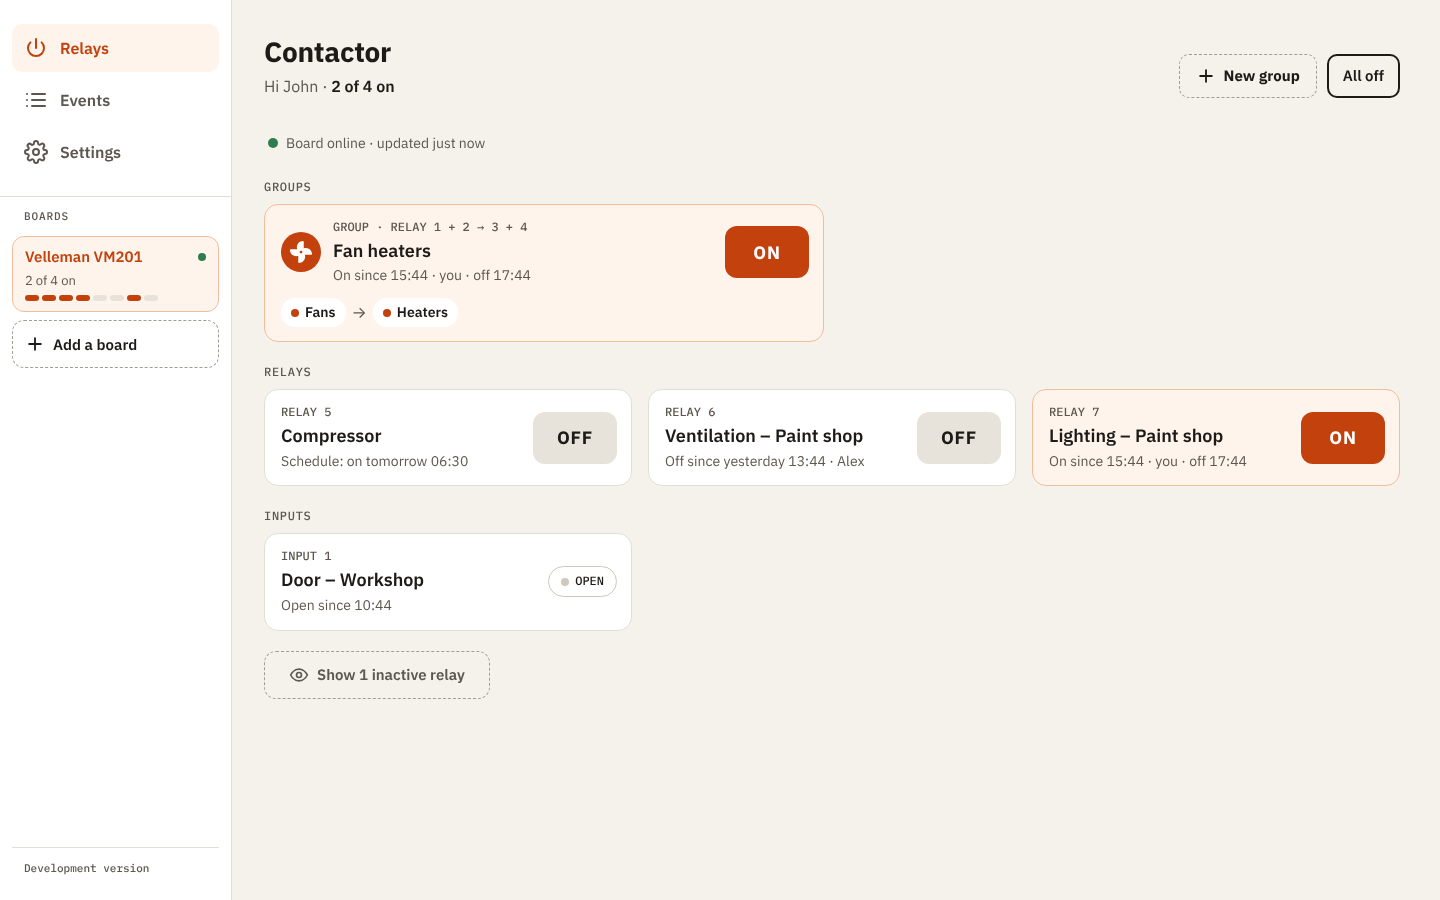
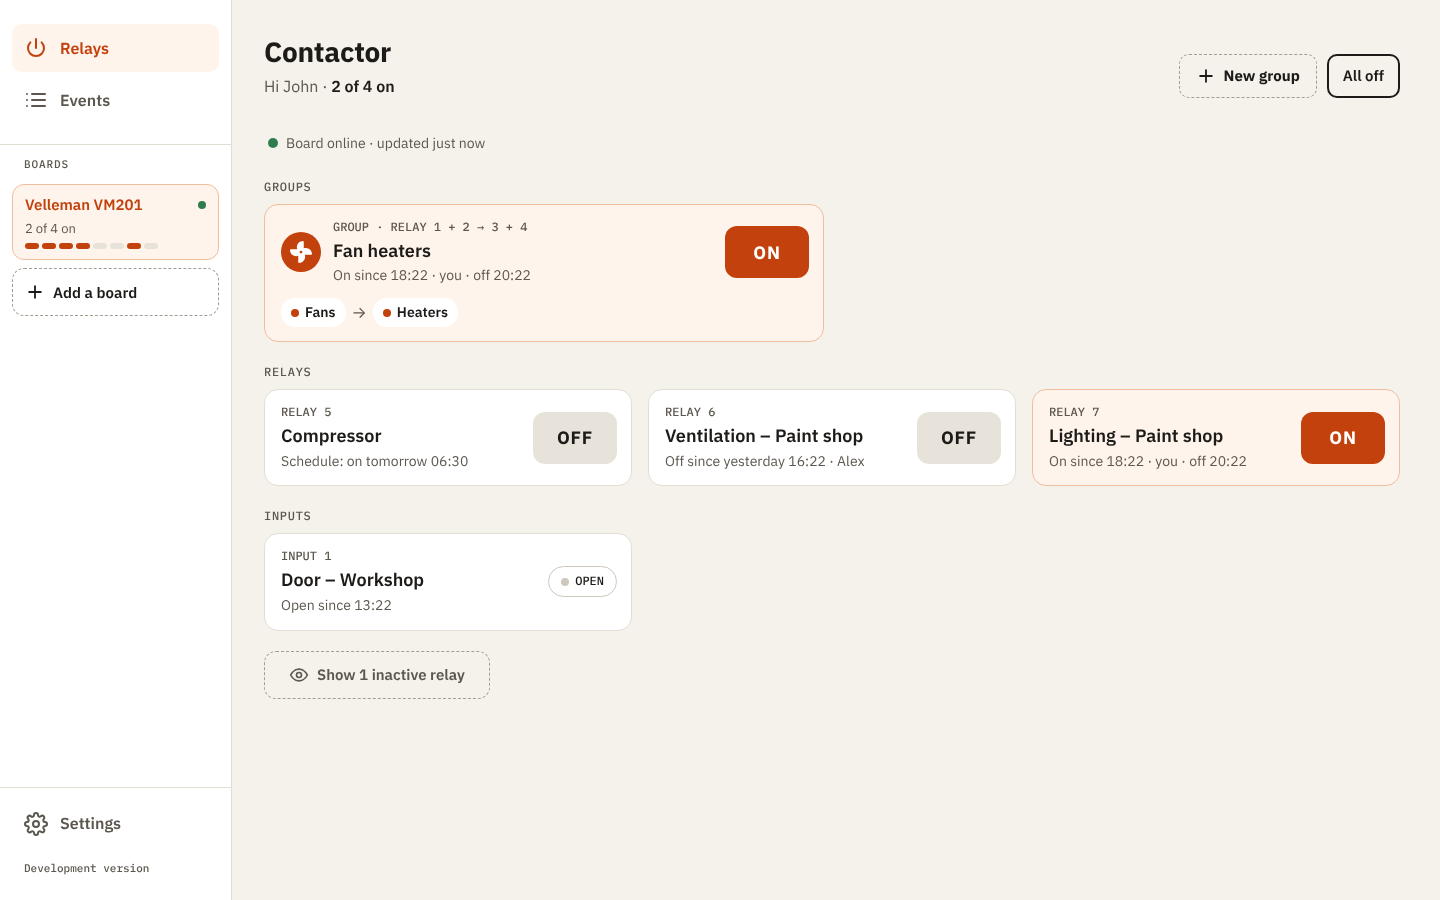
Put Debug and Settings at the bottom of the desktop side menu
Relays and Events stay on top with the boards under them; Debug (while
Debugging is on) and Settings sit just above the version, under a thin
line. The phone's tab bar keeps its order.

diff --git a/Contactor.Web/Components/TabBar.razor.css b/Contactor.Web/Components/TabBar.razor.css
@@ -37,6 +37,15 @@
     color: var(--accent);
 }
 
+/* The side menu's bottom group: in the tab bar its links are tabs like the others, Debug after Settings. */
+.side-bottom {
+    display: contents;
+}
+
+.tabs a.debug {
+    order: 1;
+}
+
 /* Above the tab bar, over the page; only the toasts themselves catch taps. */
 .toasts {
     position: absolute;
@@ -134,9 +143,23 @@
             background: var(--accent-tint);
         }
 
+        /* Debug and Settings at the bottom, just above the version, under a thin line. */
+        .side-bottom {
+            display: flex;
+            flex-direction: column;
+            gap: 4px;
+            margin: auto -12px 0;
+            padding: 12px 12px 0;
+            border-top: 1px solid var(--line);
+        }
+
+        .tabs a.debug {
+            order: 0;
+        }
+
         .tabs .version {
             display: block;
-            margin-top: auto;
+            margin-top: 8px;
             padding: 0 12px;
             font-family: var(--font-mono);
             font-size: 11px;
@@ -147,8 +170,8 @@
             color: var(--muted);
         }
 
-        /* A page's list under the tabs (the Relays screen's boards): it scrolls on its own, between the tabs and the
-           version. */
+        /* A page's list under the tabs (the Relays screen's boards): it scrolls on its own, between the tabs and
+           Debug and Settings. */
         .tabs.has-list {
             overflow: hidden;
         }
@@ -163,12 +186,6 @@
             padding: 12px 12px 16px;
             border-top: 1px solid var(--line);
             overflow-y: auto;
-        }
-
-        .tabs.has-list .version {
-            margin-top: 0;
-            padding-top: 12px;
-            border-top: 1px solid var(--line);
         }
 
         .toasts {

diff --git a/Contactor.Tests/Web/TabBarTests.cs b/Contactor.Tests/Web/TabBarTests.cs
@@ -1,0 +1,69 @@
+using System.Net;
+using Contactor.Web.Features.Boards;
+using Microsoft.Extensions.DependencyInjection;
+
+namespace Contactor.Tests.Web;
+
+/// <summary>
+/// The tab bar's order, as the server first renders it: Relays and Events, the boards' list, then Debug (while Debugging
+/// is on) and Settings in the group a desktop puts at the bottom of the side menu, just above the version. The CSS puts
+/// Debug after Settings in the phone's tab bar.
+/// </summary>
+public sealed class TabBarTests
+{
+    private const string John = "john@example.com";
+
+    private static CancellationToken Cancel => TestContext.Current.CancellationToken;
+
+    [Theory]
+    [InlineData("/")]
+    [InlineData("/events")]
+    [InlineData("/settings")]
+    public async Task Should_PutDebugAndSettings_UnderTheBoardsAndAboveTheVersion(string path)
+    {
+        await using var app = new TestWebApp(
+            "Development",
+            new Dictionary<string, string?> { [TestWebApp.SignedInAs] = John });
+        using var http = app.CreateClient();
+        // The first page makes John's row, which keeps his setting.
+        await http.GetStringAsync("/", Cancel);
+        await app.Services.GetRequiredService<BoardTrafficSetting>().SetAsync(John, true, Cancel);
+
+        var nav = Nav(WebUtility.HtmlDecode(await http.GetStringAsync(path, Cancel)));
+
+        AssertInOrder(nav, "<a href ", "href=\"events\"", "class=\"side-list\"", "class=\"side-bottom\"", "href=\"debug\"", "href=\"settings\"", "class=\"version\"");
+    }
+
+    [Fact]
+    public async Task Should_LeaveSettingsAloneAtTheBottom_WhileDebuggingIsOff()
+    {
+        await using var app = new TestWebApp(
+            "Development",
+            new Dictionary<string, string?> { [TestWebApp.SignedInAs] = John });
+        using var http = app.CreateClient();
+
+        var nav = Nav(WebUtility.HtmlDecode(await http.GetStringAsync("/", Cancel)));
+
+        Assert.DoesNotContain("href=\"debug\"", nav, StringComparison.Ordinal);
+        AssertInOrder(nav, "href=\"events\"", "class=\"side-list\"", "class=\"side-bottom\"", "href=\"settings\"", "class=\"version\"");
+    }
+
+    private static string Nav(string html)
+    {
+        var start = html.IndexOf("<nav class=\"tabs", StringComparison.Ordinal);
+        Assert.True(start >= 0, "The page has the tab bar.");
+        var end = html.IndexOf("</nav>", start, StringComparison.Ordinal);
+        return html[start..end];
+    }
+
+    private static void AssertInOrder(string html, params string[] parts)
+    {
+        var at = -1;
+        foreach (var part in parts)
+        {
+            var next = html.IndexOf(part, at + 1, StringComparison.Ordinal);
+            Assert.True(next > at, $"\"{part}\" comes after what is before it.");
+            at = next;
+        }
+    }
+}

diff --git a/docs/ARCHITECTURE.md b/docs/ARCHITECTURE.md
@@ -413,7 +413,7 @@ Mobile first (390 px), and it uses the space on a tablet and a desktop. The UI i
 **Three layouts**, by width only (Tailwind's `md` and `lg`), in each screen's `.razor.css` and `app.css`:
 - **Phone, under 768 px:** one column, the tab bar at the bottom.
 - **Tablet, 768 px and up:** wider screens. On Relays the relays are in two columns, and the groups one per row. The tab bar stays at the bottom.
-- **Desktop, 1024 px and up** (a tablet in landscape too): the tab bar becomes a side menu on the left (`TabBar.razor.css`; pages with it get `padding-left: var(--side-menu)` through `body:has(nav.tabs)`, so the side menu is only used where the browser supports `:has`; older browsers keep the bottom tab bar). On Relays the relays have two columns, three from 1280 px, and from 1280 px two groups sit side by side. Relay and Group have two columns, the events on the right, and Save at the top right, pinned while the page scrolls (a second submit button in the header, `form="…"`; the bottom bar keeps only its warnings). On a tablet Events and Debug go up to 960 px wide and Settings to 720 px; on a desktop every page with the side menu starts right beside it, is up to 1200 px wide, lined up with Relays, and Settings has its cards in two columns. On a desktop "New group" sits in the Relays header beside "All off". The pages under a tab (Relay, Group, a schedule, New group, Add a board) show the side menu too (`TabBar` with `SideMenuOnly`, no bottom tab bar on a phone). Forms (schedule, new group, add a board) stay narrow: 560 px on a tablet, and on a desktop a 640 px card beside the side menu, with their buttons at the bottom of the card.
+- **Desktop, 1024 px and up** (a tablet in landscape too): the tab bar becomes a side menu on the left (`TabBar.razor.css`; pages with it get `padding-left: var(--side-menu)` through `body:has(nav.tabs)`, so the side menu is only used where the browser supports `:has`; older browsers keep the bottom tab bar): Relays and Events at the top, the boards under them, and Debug (while Debugging is on) and Settings at the bottom, just above the version, under a thin `--line` border (`.side-bottom`, pushed down with `margin-top: auto`). The bottom tab bar keeps its order, Relays | Events | Settings | Debug. On Relays the relays have two columns, three from 1280 px, and from 1280 px two groups sit side by side. Relay and Group have two columns, the events on the right, and Save at the top right, pinned while the page scrolls (a second submit button in the header, `form="…"`; the bottom bar keeps only its warnings). On a tablet Events and Debug go up to 960 px wide and Settings to 720 px; on a desktop every page with the side menu starts right beside it, is up to 1200 px wide, lined up with Relays, and Settings has its cards in two columns. On a desktop "New group" sits in the Relays header beside "All off". The pages under a tab (Relay, Group, a schedule, New group, Add a board) show the side menu too (`TabBar` with `SideMenuOnly`, no bottom tab bar on a phone). Forms (schedule, new group, add a board) stay narrow: 560 px on a tablet, and on a desktop a 640 px card beside the side menu, with their buttons at the bottom of the card.
 - **Mouse and keyboard:** hover states and a visible `:focus-visible` ring on buttons and links (inputs keep the browser's own). Touch targets stay at least 44 px. The no-zoom rules apply on every width.
 
 **No zoom.** The pages don't zoom, so nobody zooms in by mistake and loses the big buttons: `user-scalable=no` in the viewport (Android's Chrome follows it), `touch-action: manipulation` against double-tap zoom, and `wwwroot/phone.js`, which cancels the two-finger pinch on iOS, where every browser ignores `user-scalable=no`. Anyone who needs to enlarge can use the phone's own zoom (on iOS: Settings → Accessibility → Zoom).
@@ -442,7 +442,7 @@ Mobile first (390 px), and it uses the space on a tablet and a desktop. The UI i
    - **Two or more boards** (one board looks as above, with the board filter's one board and "+ Add a board", below):
      - The count in the heading covers every board ("16 of 74 on"), and "All off" makes way for the smaller "Turn off all boards", which asks first on the same page ("Turn off all 16 relays on 9 boards?", "Cancel" and a red "Turn off"), then turns off every board it can reach (`RelayControl.TurnOffAllBoardsAsync`) and says under the heading which it couldn't: "Couldn't reach Garage. Its relays are as they were.".
      - The groups of every board shown come first ("GROUP · WORKSHOP 1 → 2", naming the board), then a section per board in the boards' order: its name as a heading (22 px), its model and "3 of 8 on" muted on the right, and its own "All off" (one tap, no question: that board only, `TurnAllOffAsync(boardId)`); its own connection line ("Online · updated just now", or the red box "No contact with Garage"); then "Relays" (still "RELAY n" by the relay's channel) and "Inputs". The counts count a group as one, on its own board.
-     - **The board filter** (`BoardPicker.razor`, the same on Relays, Events and Debug): which boards show, one, several or all. A tap on a board toggles it (from all boards: only that one; the last one let go, or every one picked, is all boards again); no tick boxes. A picked board is light orange (`--accent-tint`, `--accent-border`, its name in `--accent`), the others white with a thin border, a board without contact red (`--danger-*`). On a desktop the side menu lists them under the tabs ("BOARDS": "All boards" with "16 of 74 on · 9 boards", then a box per board with its name, a green or red dot, "3 of 8 on" or "· No contact" (or the short reason the board refuses the connection: "Wrong model", "Needs a password", "Needs a login", "Wrong password" or "Wrong login"), and a lamp per relay, `--accent` when on and `--chip` when off; the counts are the Relays screen's, `BoardCounts`); the list scrolls on its own while the tabs and the version stay (`TabBar`'s `SideList`). Below 1024 px a row of chips under the heading, scrolling sideways: "All", then each board with its name and "3/8", with its lamps from 768 px. The list ends with a dashed "+ Add a board" (on a desktop) and the chips with a dashed "+ Board" (`--line-dashed`, like "New group"), which open "Add a board". With one board there is nothing to filter: the list and the chips show only the board, as picked, and "+ Add a board" ("+ Board"), on Relays, Events and Debug and in the side menu of every other page; "All boards" ("All") comes back with a second board. A tap on the one board changes nothing, and no filter cookie can hide it (a board that is gone is left out). The desktop's side menu lists the boards on every other page too (Settings, a relay's, group's or input's page, New group, a schedule, a board's page, Add a board), with the same counts and lamps, nothing shown as picked and "+ Add a board" at the end: there a tap posts the Relays screen's own form with that board alone ("All boards", or the one board: every board, so a board added later shows), which sets Relays' cookie and goes to Relays showing it (`TabBar` with no `SideList` of the page's own, `BoardPicker` with `Go`). The list, and the board filter on Events and Debug, redraw only when what they show of a board changes (its contact, its relays and why it refuses the connection, `ShownBoardStates`). The chips below 1024 px stay on Relays, Events and Debug only.
+     - **The board filter** (`BoardPicker.razor`, the same on Relays, Events and Debug): which boards show, one, several or all. A tap on a board toggles it (from all boards: only that one; the last one let go, or every one picked, is all boards again); no tick boxes. A picked board is light orange (`--accent-tint`, `--accent-border`, its name in `--accent`), the others white with a thin border, a board without contact red (`--danger-*`). On a desktop the side menu lists them under Relays and Events ("BOARDS": "All boards" with "16 of 74 on · 9 boards", then a box per board with its name, a green or red dot, "3 of 8 on" or "· No contact" (or the short reason the board refuses the connection: "Wrong model", "Needs a password", "Needs a login", "Wrong password" or "Wrong login"), and a lamp per relay, `--accent` when on and `--chip` when off; the counts are the Relays screen's, `BoardCounts`); the list scrolls on its own while the rest of the side menu stays (`TabBar`'s `SideList`). Below 1024 px a row of chips under the heading, scrolling sideways: "All", then each board with its name and "3/8", with its lamps from 768 px. The list ends with a dashed "+ Add a board" (on a desktop) and the chips with a dashed "+ Board" (`--line-dashed`, like "New group"), which open "Add a board". With one board there is nothing to filter: the list and the chips show only the board, as picked, and "+ Add a board" ("+ Board"), on Relays, Events and Debug and in the side menu of every other page; "All boards" ("All") comes back with a second board. A tap on the one board changes nothing, and no filter cookie can hide it (a board that is gone is left out). The desktop's side menu lists the boards on every other page too (Settings, a relay's, group's or input's page, New group, a schedule, a board's page, Add a board), with the same counts and lamps, nothing shown as picked and "+ Add a board" at the end: there a tap posts the Relays screen's own form with that board alone ("All boards", or the one board: every board, so a board added later shows), which sets Relays' cookie and goes to Relays showing it (`TabBar` with no `SideList` of the page's own, `BoardPicker` with `Go`). The list, and the board filter on Events and Debug, redraw only when what they show of a board changes (its contact, its relays and why it refuses the connection, `ShownBoardStates`). The chips below 1024 px stay on Relays, Events and Debug only.
      - While filtered: "Showing 2 of 9 boards · 7 of 28 on · Show all". A board without contact that the filter hides still gets a red line: "Garage: no contact since 07:42".
      - The filter is this browser's, and each screen keeps its own (`BoardFilterScreen`): the cookies `contactor-relays-boards`, `contactor-events-boards` and `contactor-debug-boards` (the board ids, e.g. `1-3`; anything else is every board, and a board that is gone is left out). A tap posts the page's form (`POST /relays/boards`, `/events/boards` or `/debug/boards`, behind the sign-in and with the antiforgery token, `RelaysEndpoints`), which sets that screen's cookie and goes back to the screen. A token that no longer fits (it covers the person's name, so a rename while the page is open) changes nothing and goes back to the page, which brings a fresh one. `GET /relays/boards/all` (behind the sign-in, no input) only clears the Relays cookie and goes to Relays: where "Add a board" ends. `App.razor` reads the cookies on the request that opens a page and hands them to the live connection (`Routes`, `BoardFilters`), so the page never shows every board first and needs no JavaScript.
 2. **Relay** (`/relay/{id}`)
